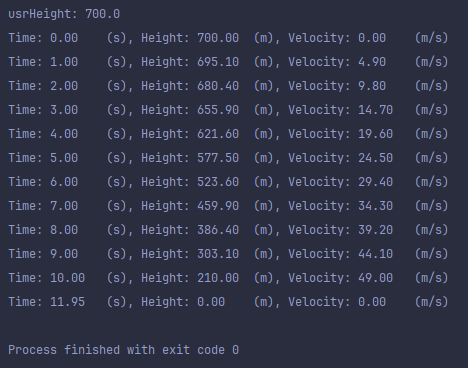
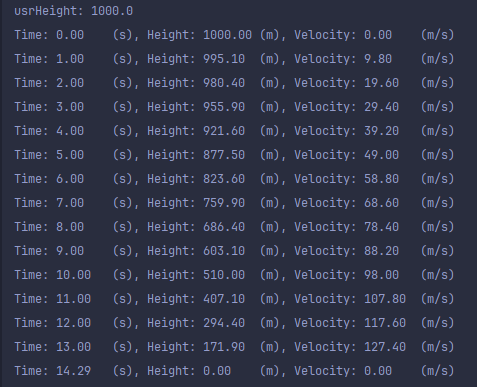
Fixed velocity formula

Changed region(s): [[0.0, 0.0, 0.9573, 0.9864]]

diff --git a/main/src/calculation.java b/main/src/calculation.java
@@ -49,7 +49,7 @@ public class calculation {
     }
 
     private void calcCurrentVelocity(){
-        velocity = (usrHeight - curHeight) / time;
+        velocity = 9.8 * time;
     }
 
     public void setUsrHeight(double usrInput){
